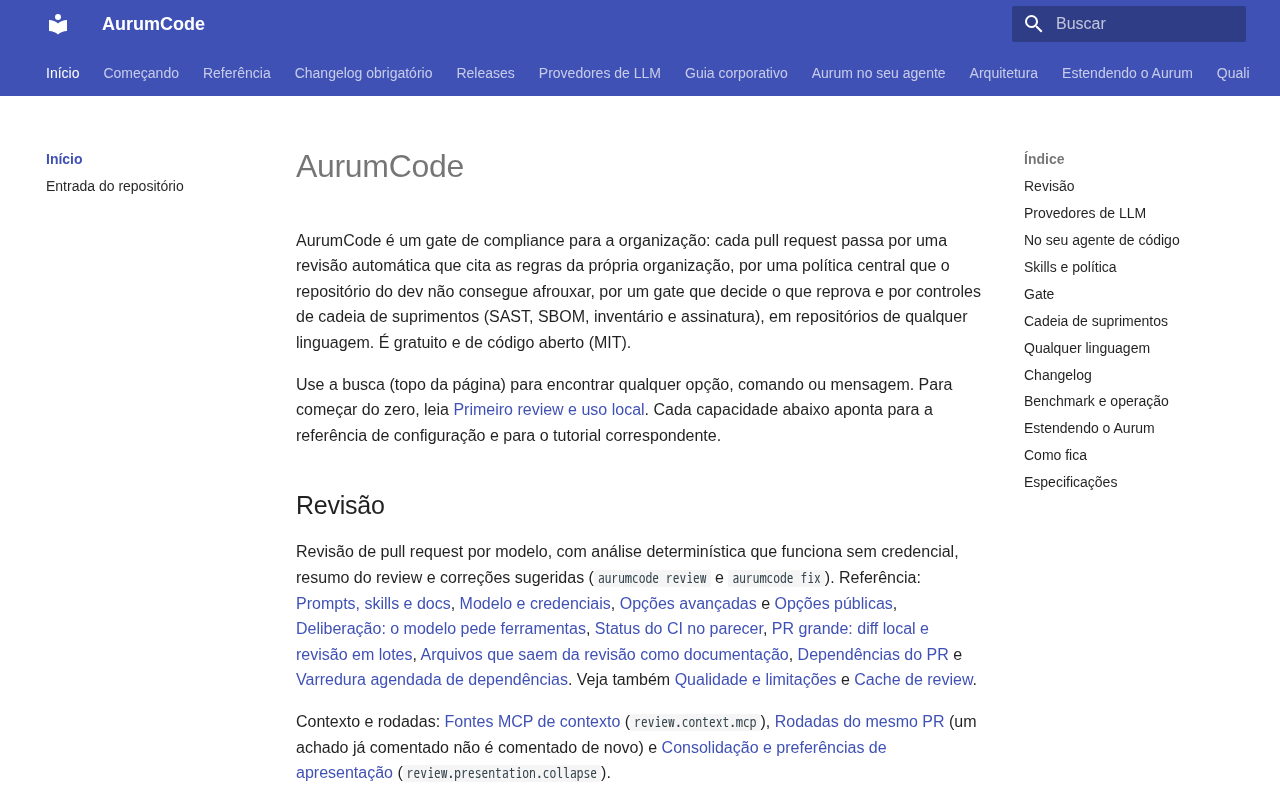
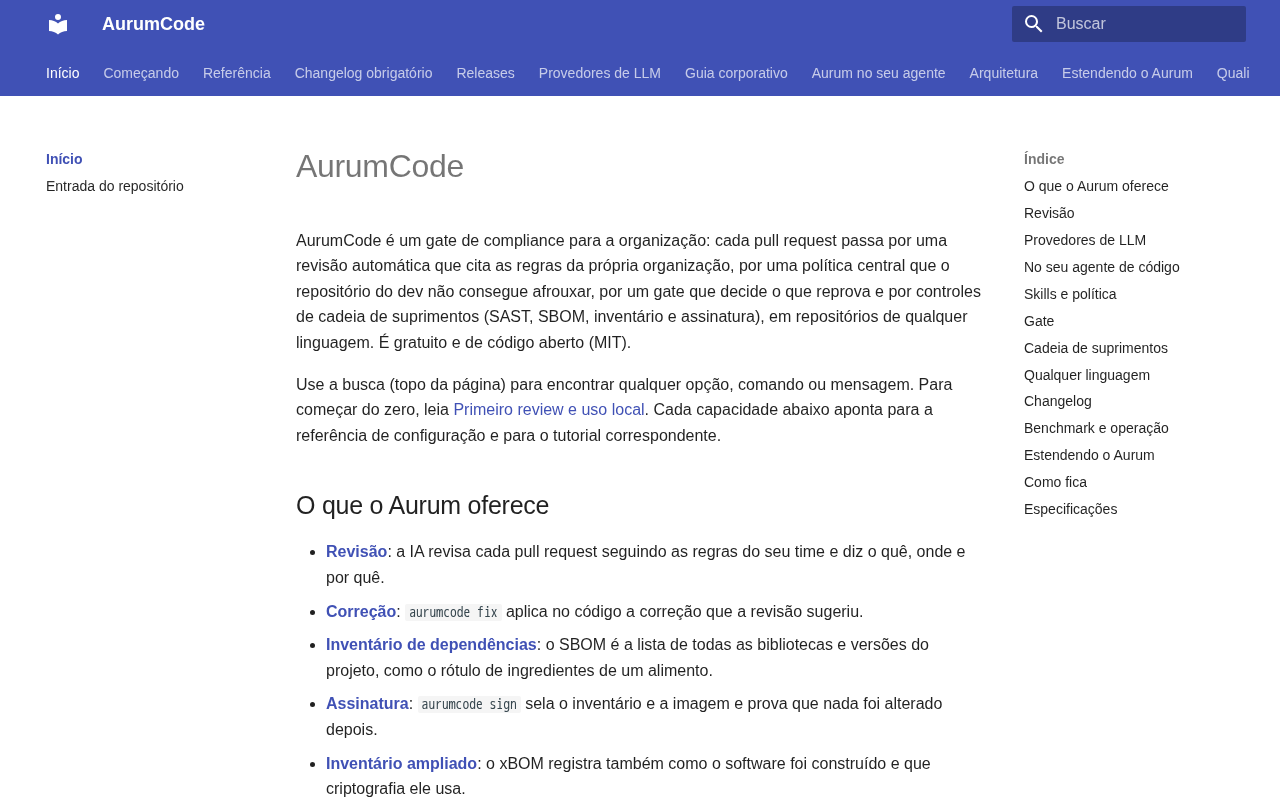
docs: O que o Aurum oferece no README e no indice

Changed region(s): [[0.2188, 0.625, 0.75, 1.0], [0.7812, 0.2188, 0.9375, 0.6562]]

diff --git a/docs/index.md b/docs/index.md
@@ -12,6 +12,22 @@ mensagem. Para começar do zero, leia [Primeiro review e uso local](getting-star
 Cada capacidade abaixo aponta para a referência de configuração e para o
 tutorial correspondente.
 
+## O que o Aurum oferece
+
+- **[Revisão](tutorials/revisao.md)**: a IA revisa cada pull request seguindo as regras do seu time e diz o quê, onde e por quê.
+- **[Correção](getting-started.md#corrigir-sugestoes-com-o-fix)**: `aurumcode fix` aplica no código a correção que a revisão sugeriu.
+- **[Inventário de dependências](tutorials/sbom-dependency-track.md)**: o SBOM é a lista de todas as bibliotecas e versões do projeto, como o rótulo de ingredientes de um alimento.
+- **[Assinatura](tutorials/assinatura.md)**: `aurumcode sign` sela o inventário e a imagem e prova que nada foi alterado depois.
+- **[Inventário ampliado](tutorials/xbom.md)**: o xBOM registra também como o software foi construído e que criptografia ele usa.
+- **[Dependências vulneráveis](configuration.md#dependencias-do-pr-dependencies)**: aponta biblioteca com falha conhecida, pacote malicioso ou licença proibida, em cada pull request e em varredura agendada.
+- **[Consulta do agente de IA](tutorials/agente.md)**: seu agente de código (Claude Code, Codex e outros) consulta o Aurum pelo protocolo MCP antes de abrir a pull request.
+- **[Changelog](tutorials/changelog.md)**: o Aurum não faz nada (`off`), sugere a entrada do changelog (`suggest`) ou exige a entrada (`required`).
+- **[Melhoria contínua](tutorials/realimentacao.md)**: propõe ajustes de regras a partir do uso real, e uma pessoa aprova cada ajuste.
+
+Funciona em qualquer linguagem de programação ([exemplo](tutorials/qualquer-linguagem.md)).
+
+Tutorial: comece pela [revisão](tutorials/revisao.md); todos estão em [Tutoriais](tutorials/README.md).
+
 ## Revisão
 
 Revisão de pull request por modelo, com análise determinística que funciona

diff --git a/README.md b/README.md
@@ -8,6 +8,20 @@ a análise determinística roda offline, sem nenhuma credencial.
 
 **[Abra o guia interativo →](https://mpaape.github.io/AurumCode/)**
 
+## O que o Aurum oferece
+
+- **[Revisão](docs/tutorials/revisao.md)**: a IA revisa cada pull request seguindo as regras do seu time e diz o quê, onde e por quê.
+- **[Correção](docs/getting-started.md#corrigir-sugestoes-com-o-fix)**: `aurumcode fix` aplica no código a correção que a revisão sugeriu.
+- **[Inventário de dependências](docs/tutorials/sbom-dependency-track.md)**: o SBOM é a lista de todas as bibliotecas e versões do projeto, como o rótulo de ingredientes de um alimento.
+- **[Assinatura](docs/tutorials/assinatura.md)**: `aurumcode sign` sela o inventário e a imagem e prova que nada foi alterado depois.
+- **[Inventário ampliado](docs/tutorials/xbom.md)**: o xBOM registra também como o software foi construído e que criptografia ele usa.
+- **[Dependências vulneráveis](docs/configuration.md#dependencias-do-pr-dependencies)**: aponta biblioteca com falha conhecida, pacote malicioso ou licença proibida, em cada pull request e em varredura agendada.
+- **[Consulta do agente de IA](docs/tutorials/agente.md)**: seu agente de código (Claude Code, Codex e outros) consulta o Aurum pelo protocolo MCP antes de abrir a pull request.
+- **[Changelog](docs/tutorials/changelog.md)**: o Aurum não faz nada (`off`), sugere a entrada do changelog (`suggest`) ou exige a entrada (`required`).
+- **[Melhoria contínua](docs/tutorials/realimentacao.md)**: propõe ajustes de regras a partir do uso real, e uma pessoa aprova cada ajuste.
+
+Funciona em qualquer linguagem de programação ([exemplo](docs/tutorials/qualquer-linguagem.md)).
+
 ## Comece aqui
 
 1. No repositório que receberá os reviews, configure os secrets de Actions
